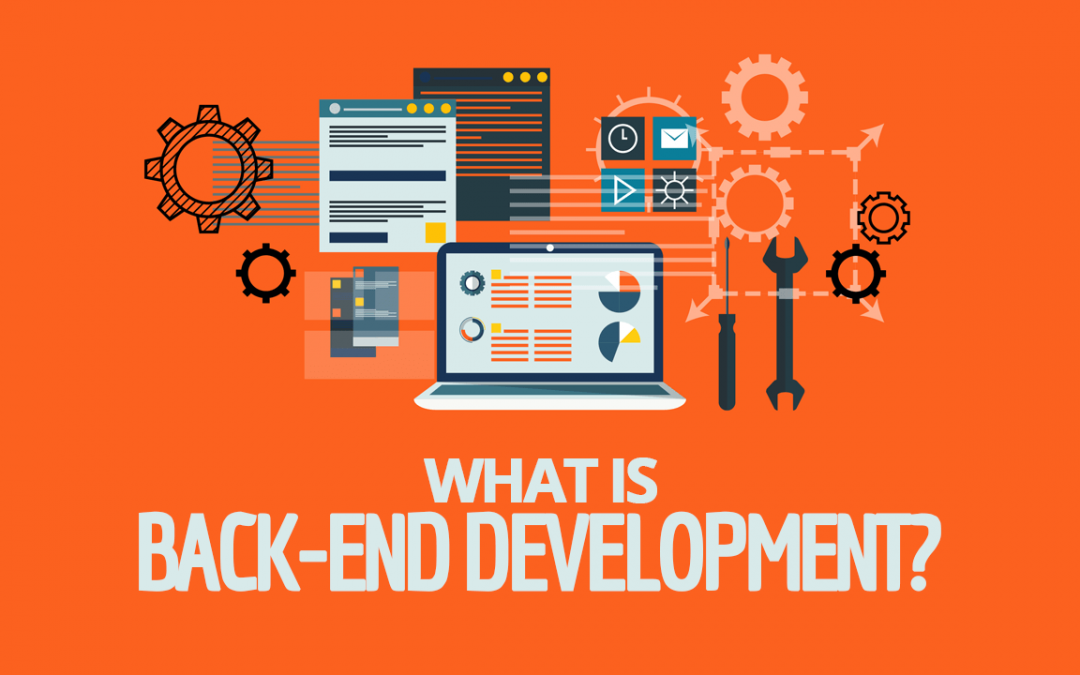
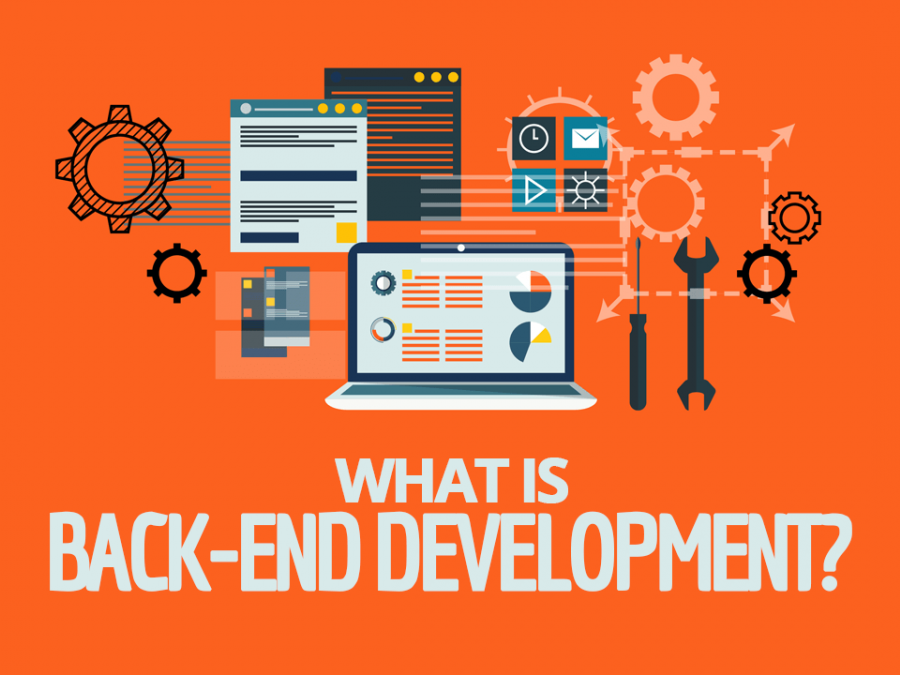
third commit

Changed region(s): [[0.4356, 0.0622, 0.9333, 0.6222], [0.0311, 0.6533, 0.9644, 0.9022], [0.0622, 0.0933, 0.4667, 0.6222]]

diff --git a/ansu.html b/ansu.html
@@ -33,25 +33,26 @@
             <li class="nav-item dropdown">
                 <a class="nav-link dropdown-toggle text-warning" href="#" data-toggle="dropdown">Services</a>
                 <div class="dropdown-menu bg-dark">
-                    <a class="dropdown-item text-warning" href="#">Products</a>
+                    <a class="dropdown-item text-warning" href="#ourservices">Products</a>
                     <a class="dropdown-item text-warning" href="#">Bookings</a>
                     <a class="dropdown-item text-warning" href="#">Offers</a>
                 </div>
             </li>
             <li class="nav-item">
-                <a class="nav-link text-warning" href="about.html">Contact Us</a>
+                <a class="nav-link text-warning" href="#contactus">Contact Us</a>
             </li>
             <li class="nav-item">
-                <a href="bootstrapform.html" class="btn btn-outline-warning"><i class="fas fa-user-plus"></i> Sign Up</a>
+                <a href="bootstrapform.html" class="btn btn-outline-warning"><i class="fas fa-user-plus"></i> Sign
+                    Up</a>
             </li>
         </ul>
     </nav>
     <div class="container-fluid">
         <div class="row bg-info">
-            <div class="col-lg-5">
-                <h4 class="text-white text-center text-uppercase font-weight-bold"
-                    style="padding-top: 90px; font-family:'Courier New', Courier, monospace;">Ansu Tech</h4>
-                <p class="text-white text-justify text-center" style="margin: 40px 20px ;">We have been working with
+            <div class="col-lg-5 text-center">
+                <h4 class="text-white text-uppercase font-weight-bold"
+                    style="font-family:'Courier New', Courier, monospace; padding-top: 120px;">Ansu Tech</h4>
+                <p class="text-white text-justify text-center" style="padding-top: 20px; line-height: 2.0rem;">We have been working with
                     clients to imagine and build software
                     that
                     people love
@@ -63,29 +64,29 @@
                     in the
                     results we produce together.</p>
             </div>
-            <div class="col-lg-7">
+            <div class="col-lg-7 mr-auto">
                 <a class="nav-link">
                     <img src="images/mobile-apps-nepal.png" class="rounded-circle mx-auto d-block"
-                        style="width: 100%; height: 400px;">
+                        style="width: 100%; height:auto;">
                 </a>
             </div>
         </div>
     </div>
-    <div class="container-fluid">
+    <div class="container-fluid mt-4">
         <div class="col-sm">
-             <h1 class="text-center pt-3 font-weight-bold" id="#ourservices">Our Services</h1>
+            <h1 class="text-center pt-3 font-weight-bold" id="ourservices">Our Services</h1>
+            <hr class="bg-danger pt-1" style="width: 120px;">
             <p class="text-center pt-3 font-italic">Lorem ipsum dolor sit amet consectetur adipisicing elit. Sequi
                 placeat<br>
                 perferendis eius cupiditate sint<br> saepe consequuntur autem quaerat explicabo. Libero, nemo <br>fugit
                 modi quas recusandae at maxime.</p>
-            <hr class="bg-danger pt-1" style="width: 150px;">
         </div>
     </div>
     <div class="container-fluid">
         <div class="row">
-            <div class="col-lg-4 pt-1 pb-1 pl-0 pr-0">
-                <img src="images/AAEAAQAAAAAAAAg8AAAAJGFhMDRkNmMyLTY5M2EtNDgwYS1iMWE4LTk2YThkYTM0ODY4OQ.jpg" class="img-thumbnail float-left" alt="responsive image"
-                    style="height: auto; width: 100%;">
+            <div class="col-lg-4 pt-1 pb-1">
+                <img src="images/12-Websites-You-Should-Check-Out-to-Learn-Web-Development-Fast.jpg"
+                    class="img-thumbnail float-left" alt="responsive image" style="height: auto; width: 100%;">
                 <p class="text-center text-dark font-weight-bold">Front-End Development</p>
             </div>
             <div class="col-lg-4 pt-1 pb-1">
@@ -93,19 +94,19 @@
                     style="height: auto; width: 100%;">
                 <p class="text-center text-dark font-weight-bold">Digital Marketing</p>
             </div>
-            <div class="col-lg-4 pt-1 pb-1 pl-0 pr-0">
-                <img src="images/Anshu Tech.jpg" alt="Responsive Images"
-                    class="img-thumbnail float-right" style="height:auto; width: 100%;">
+            <div class="col-lg-4 pt-1 pb-1">
+                <img src="images/What-Is-Back-End-Development-1080x675.png" alt="Responsive Images" class="img-thumbnail float-right"
+                    style="height:auto; width: 100%;">
                 <p class="text-center text-dark font-weight-bold">Back-End Development</p>
             </div>
         </div>
     </div>
-    <div class="container-fluid pl-0 pr-0" id="aboutus">
-        <h1 class="text-center pt-3 font-weight-bold">About Us</h1>
+    <div class="container-fluid pl-0 pr-0 mt-4">
+        <h1 class="text-center pt-3 font-weight-bold" id="aboutus">About Us</h1>
         <hr class="bg-danger pt-1" style="width: 100px;">
         <div class="card img-fluid" style="width:100%;">
             <img class="card-img-top rounded" src="images/photo-1530982011887-3cc11cc85693.jpeg" alt="Card image"
-                style="height: 400px;">
+                style="height: 500px;">
             <div class="card-img-overlay">
                 <h3 class="card-title text-center">Want To Be The Part Of Us?</h3>
                 <p class="card-text text-center">Lorem ipsum dolor sit amet consectetur, adipisicing elit. Corrupti<br>
@@ -114,6 +115,22 @@
                 <div class="text-center dropdown">
                     <a href="#" class="btn btn-success dropdown-toggle btn-lg" data-toggle="dropdown">View More</a>
                 </div>
+            </div>
+        </div>
+    </div>
+    <div class="container-fluid mt-4" id="contactus">
+        <h1 class="text-center pt-3 font-weight-bold"> Contact Us!</h1>
+        <hr class=" bg-danger pt-1" style="width: 110px;">
+        <p class="text-muted text-center">Ready to start your next project with us? Give us a call or send us an email
+            and we will get<br> back to you as soon as possible!</p>
+        <div class="row mb-5">
+            <div class="col-lg-4 ml-auto text-center">
+                <i class="fas fa-phone-volume fa-4x mb-4"></i>
+                <p class="font-weight-bold text-secondary">+977-9815459421</p>
+            </div>
+            <div class="col-lg-4 mr-auto text-center">
+                <i class="fas fa-envelope-open-text fa-4x mb-4"></i>
+                <p class="font-weight-bold text-secondary">sherusaru07@gmail.com</p>
             </div>
         </div>
     </div>
